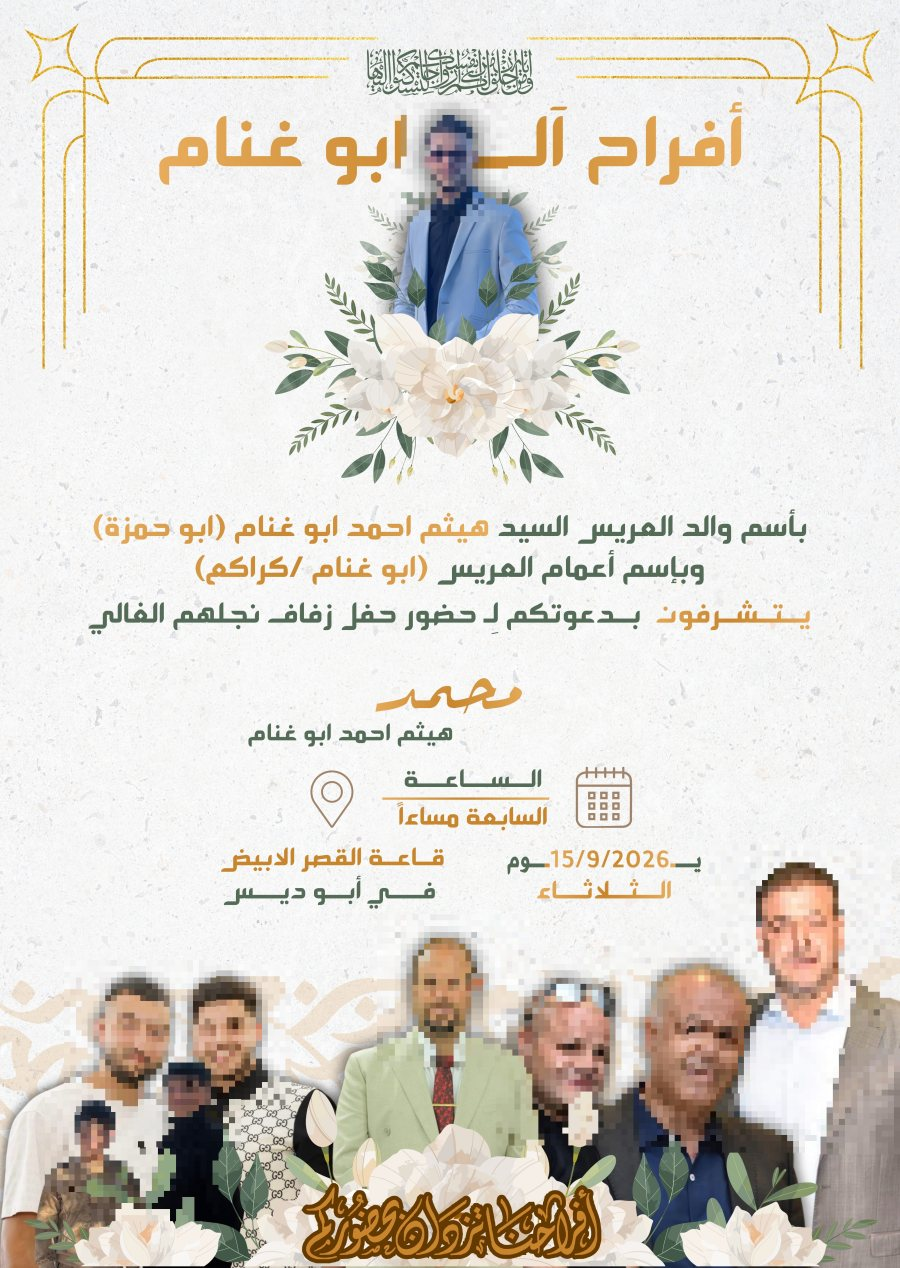
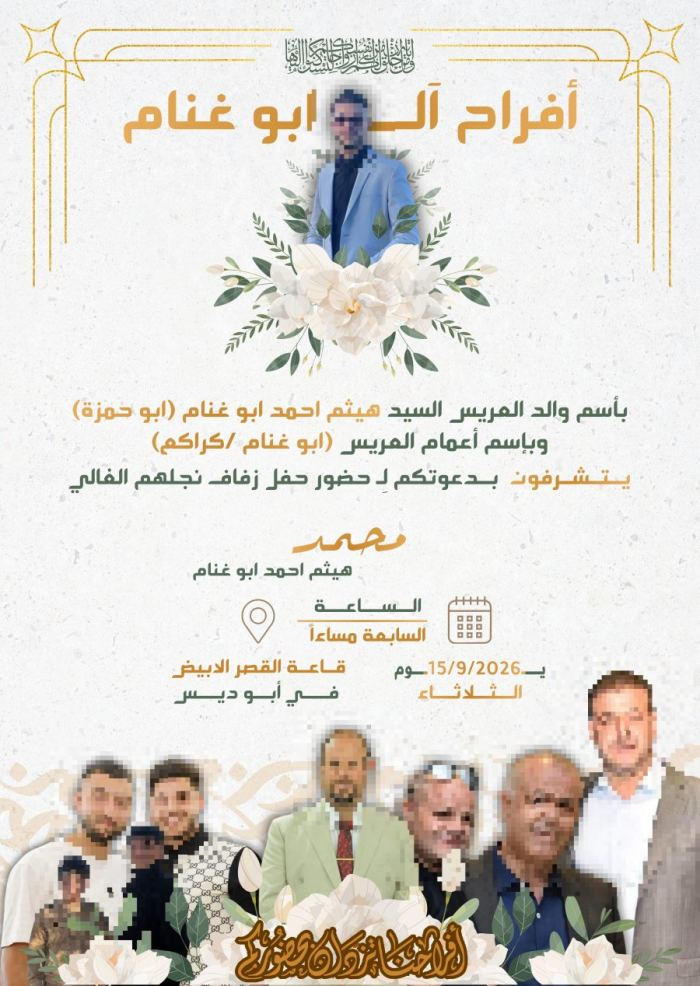
Add files via upload

Changed region(s): [[0.03, 0.0304, 0.09, 0.0609], [0.66, 0.6694, 0.69, 0.6998], [0.09, 0.0609, 0.12, 0.0913]]

diff --git a/index.html b/index.html
@@ -373,6 +373,18 @@ footer{background:var(--wine-dark);color:#e8d5d0;padding:60px 0 0}
 .snap-card p{color:rgba(255,255,255,.6);font-size:14px;margin-bottom:22px}
 .snap-btn{display:inline-block;background:#fffc00;color:#1a1a1a;font-weight:800;padding:11px 30px;border-radius:50px;font-size:15px}
 
+
+/* ═══ شريط الأعمال المتحرك ═══ */
+.works-strip{display:flex;gap:16px;overflow-x:auto;padding:8px 4px 20px;scroll-snap-type:x mandatory;-webkit-overflow-scrolling:touch}
+.works-strip::-webkit-scrollbar{height:6px}
+.works-strip::-webkit-scrollbar-thumb{background:var(--gold);border-radius:6px}
+.works-strip::-webkit-scrollbar-track{background:#f3e6dd;border-radius:6px}
+.work-card{position:relative;flex:0 0 185px;scroll-snap-align:start;border-radius:18px;overflow:hidden;box-shadow:0 10px 28px rgba(109,31,56,.16);transition:.3s;background:#fff}
+.work-card:hover{transform:translateY(-6px);box-shadow:0 18px 40px rgba(109,31,56,.25)}
+.work-card img{width:100%;aspect-ratio:3/4;object-fit:cover;object-position:top;display:block}
+.work-tag2{position:absolute;bottom:0;right:0;left:0;background:linear-gradient(transparent,rgba(30,8,16,.88));color:#fff;font-size:12.5px;font-weight:700;padding:26px 12px 10px;line-height:1.5}
+.photos-hint{font-size:12.5px;color:var(--muted);text-align:center;margin:2px 0 14px}
+
 </style>
 </head>
 <body>
@@ -434,7 +446,7 @@ footer{background:var(--wine-dark);color:#e8d5d0;padding:60px 0 0}
 
 <!-- بنر الهوية -->
 <section style="padding:0;line-height:0">
-  <img src="cover.jpg" alt="فرحتي - دعوات رقمية" style="width:100%;display:block">
+  <img src="cover.jpg" alt="فرحتي - دعوات رقمية" loading="lazy" style="width:100%;display:block">
 </section>
 
 <!-- الخدمات -->
@@ -565,17 +577,14 @@ footer{background:var(--wine-dark);color:#e8d5d0;padding:60px 0 0}
       <h2>نماذج من دعوات صممناها</h2>
       <p>استبدل هذه البطاقات بصور أعمالك الحقيقية لاحقاً</p>
     </div>
-    <div class="works-grid">
-      <div class="work work-img reveal">
-        <img src="work-1.jpg" alt="دعوة زفاف - أفراح آل أبو جمصة">
-        <div class="work-tag">💍 زفاف — أفراح آل أبو جمصة</div>
-      </div>
-      <div class="work work-img reveal">
-        <img src="work-2.jpg" alt="دعوة زفاف - أفراح آل أبو غنام">
-        <div class="work-tag">💍 زفاف — أفراح آل أبو غنام</div>
-      </div>
+    <div class="works-strip">
+      <div class="work-card reveal"><img src="work-1.jpg" alt="دعوة زفاف - أفراح آل أبو جُمعة" loading="lazy"><div class="work-tag2">💍 زفاف<br>أفراح آل أبو جُمعة</div></div>
+      <div class="work-card reveal"><img src="work-2.jpg" alt="دعوة زفاف - أفراح آل أبو غنام" loading="lazy"><div class="work-tag2">💍 زفاف<br>أفراح آل أبو غنام</div></div>
+      <div class="work-card reveal"><img src="work-3.jpg" alt="دعوة برايدل شاور - حنين" loading="lazy"><div class="work-tag2">🌸 برايدل شاور<br>حنين — الطور</div></div>
+      <div class="work-card reveal"><img src="work-4.jpg" alt="دعوة من أم العروس - حنين وخالد" loading="lazy"><div class="work-tag2">💐 من أم العروس<br>حنين & خالد — العيزرية</div></div>
+      <div class="work-card reveal"><img src="work-5.jpg" alt="دعوة عيد ميلاد - صلاح" loading="lazy"><div class="work-tag2">🎂 عيد ميلاد<br>صلاح — الخلاوة</div></div>
     </div>
-    <p class="works-note reveal">📸 شغل حقيقي لزبائننا — الوجوه مغبّشة حفاظاً على الخصوصية</p>
+    <p class="works-note reveal">📸 شغل حقيقي لزبايننا — الوجوه مغبّشة حفاظاً على الخصوصية ← اسحب لشوف الكل</p>
   </div>
 </section>
 
@@ -617,24 +626,24 @@ footer{background:var(--wine-dark);color:#e8d5d0;padding:60px 0 0}
 <section class="testimonials">
   <div class="container">
     <div class="sec-head reveal">
-      <span class="sec-tag">✦ قالوا عنا ✦</span>
-      <h2>فرحتهم بدأت من هنا</h2>
+      <span class="sec-tag">⭐ شو بيحكوا زبايننا ⭐</span>
+      <h2>كلام زبايننا من قلبهم</h2>
     </div>
     <div class="testi-grid">
       <div class="testi reveal">
         <div class="stars">★★★★★</div>
-        <p>"تعاملت معهم لدعوة زواج أختي، التصميم أبكى أمي من جماله! والتسليم كان أسرع من المتوقع."</p>
-        <div class="who"><div class="avatar">س</div><div><h4>سارة م.</h4><span>الباقة الذهبية</span></div></div>
+        <p>"والله طلبت دعوة لفرح أختي.. التصميم أبكى أمي من جماله! والتسليم كان أسرع من الوعد 👌"</p>
+        <div class="who"><div class="avatar">س</div><div><h4>سارة م.</h4><span>الباقة الذهبية — القدس</span></div></div>
       </div>
       <div class="testi reveal">
         <div class="stars">★★★★★</div>
-        <p>"فلتر السناب كان حديث كل الضيوف! صار كل الناس تصور فيه، وطلعت الذكريات ولا أروع."</p>
-        <div class="who"><div class="avatar">ع</div><div><h4>عبدالله ر.</h4><span>الباقة البلاتينية</span></div></div>
+        <p>"فلتر السناب صار حديث كل الضيوف! كلهم صوّروا فيه والذكريات طلعت ولا أحلى 👻"</p>
+        <div class="who"><div class="avatar">ع</div><div><h4>عبدالله ر.</h4><span>الباقة البلاتينية — العيزرية</span></div></div>
       </div>
       <div class="testi reveal">
         <div class="stars">★★★★★</div>
-        <p>"صفحة الدعوة بالرابط فكرة عبقرية — جدتي فتحتها من جوالها وشافت كل التفاصيل والخريطة بسهولة."</p>
-        <div class="who"><div class="avatar">ن</div><div><h4>نورة خ.</h4><span>الباقة البلاتينية</span></div></div>
+        <p>"صفحة الدعوة بالرابط فكرة عبقرية — جدتي فتحتها من جوّالتها وشافت كل شي والخريطة بكل سهولة 🤍"</p>
+        <div class="who"><div class="avatar">ن</div><div><h4>نورة خ.</h4><span>الباقة البلاتينية — بيت ساحور</span></div></div>
       </div>
     </div>
   </div>
@@ -767,23 +776,15 @@ footer{background:var(--wine-dark);color:#e8d5d0;padding:60px 0 0}
             </select>
           </div>
         </div>
-        <div class="form-row">
-          <div class="form-group">
-            <label>تاريخ المناسبة</label>
-            <input type="date" id="fDate">
-          </div>
-          <div class="form-group">
-            <label>📎 صور على التصميم؟</label>
-            <select id="fPhotos">
-              <option>لا</option>
-              <option>نعم — سأرسلها عبر واتساب</option>
-            </select>
-          </div>
+        <div class="form-group">
+          <label>تاريخ المناسبة</label>
+          <input type="date" id="fDate">
         </div>
         <div class="form-group">
           <label>تفاصيل إضافية (اختياري)</label>
           <textarea id="fNotes" rows="3" placeholder="أخبرنا عن تفضيلاتك: الألوان، الأسلوب، الأفكار..."></textarea>
         </div>
+        <p class="photos-hint">📎 إذا بدك تضيف صوركم على التصميم — ابعتها لنا عبر واتساب بعد إرسال الطلب</p>
         <button type="submit" class="btn">إرسال الطلب عبر واتساب 💬</button>
       </form>
     </div>
@@ -800,8 +801,8 @@ footer{background:var(--wine-dark);color:#e8d5d0;padding:60px 0 0}
         <div class="socials">
           <a href="https://www.instagram.com/farhati.co" title="انستغرام" target="_blank"><svg viewBox="0 0 24 24" width="19" height="19" fill="currentColor"><path d="M12 2.163c3.204 0 3.584.012 4.85.07 3.252.148 4.771 1.691 4.919 4.919.058 1.265.069 1.645.069 4.849 0 3.205-.012 3.584-.069 4.849-.149 3.225-1.664 4.771-4.919 4.919-1.266.058-1.644.07-4.85.07-3.204 0-3.584-.012-4.849-.07-3.26-.149-4.771-1.699-4.919-4.92-.058-1.265-.07-1.644-.07-4.849 0-3.204.013-3.583.07-4.849.149-3.227 1.664-4.771 4.919-4.919 1.266-.057 1.645-.069 4.849-.069zm0-2.163c-3.259 0-3.667.014-4.947.072-4.358.2-6.78 2.618-6.98 6.98-.059 1.281-.073 1.689-.073 4.948 0 3.259.014 3.668.072 4.948.2 4.358 2.618 6.78 6.98 6.98 1.281.058 1.689.072 4.948.072 3.259 0 3.668-.014 4.948-.072 4.354-.2 6.782-2.618 6.979-6.98.059-1.28.073-1.689.073-4.948 0-3.259-.014-3.667-.072-4.947-.196-4.354-2.617-6.78-6.979-6.98-1.281-.059-1.69-.073-4.949-.073zm0 5.838c-3.403 0-6.162 2.759-6.162 6.162s2.759 6.163 6.162 6.163 6.162-2.759 6.162-6.163c0-3.403-2.759-6.162-6.162-6.162zm0 10.162c-2.209 0-4-1.79-4-4 0-2.209 1.791-4 4-4s4 1.791 4 4c0 2.21-1.791 4-4 4zm6.406-11.845c-.796 0-1.441.645-1.441 1.44s.645 1.44 1.441 1.44c.795 0 1.439-.645 1.439-1.44s-.644-1.44-1.439-1.44z"/></svg></a>
           <a href="https://www.facebook.com/share/1DRjE2YVRX/?mibextid=wwXIfr" title="فيسبوك" target="_blank"><svg viewBox="0 0 24 24" width="19" height="19" fill="currentColor"><path d="M24 12.073c0-6.627-5.373-12-12-12s-12 5.373-12 12c0 5.99 4.388 10.954 10.125 11.854v-8.385H7.078v-3.47h3.047V9.43c0-3.007 1.792-4.669 4.533-4.669 1.312 0 2.686.235 2.686.235v2.953H15.83c-1.491 0-1.956.925-1.956 1.874v2.25h3.328l-.532 3.47h-2.796v8.385C19.612 23.027 24 18.062 24 12.073z"/></svg></a>
-          <a href="#" title="سناب شات"><svg viewBox="0 0 24 24" width="19" height="19" fill="currentColor"><path d="M12 2c3.2 0 5.3 2.4 5.3 5.3v2.4c.5.2 1 .1 1.5.1.8 0 1.7.3 1.7 1.2 0 .8-.7 1.1-1.4 1.3-.9.3-1.5.7-1.8 1.4-.1.4-.1.9 0 1.3.5 1.3 1.5 2.3 2.9 2.8.6.2 1.2.4 1.8.7.5.3.8.8.7 1.4-.1.8-.9 1.2-1.7 1.3-.9.1-1.8 0-2.7-.1-1.1-.1-2.2.2-3.2.7-.9.5-1.9.7-2.9.7s-2-.2-2.9-.7c-1-.5-2.1-.8-3.2-.7-.9.1-1.8.2-2.7.1-.8-.1-1.6-.5-1.7-1.3-.1-.6.2-1.1.7-1.4.6-.3 1.2-.5 1.8-.7 1.4-.5 2.4-1.5 2.9-2.8.1-.4.1-.9 0-1.3-.3-.7-.9-1.1-1.8-1.4-.7-.2-1.4-.5-1.4-1.3 0-.9.9-1.2 1.7-1.2.5 0 1 .1 1.5-.1v-2.4C6.7 4.4 8.8 2 12 2z"/></svg></a>
-          <a href="#" title="تيك توك"><svg viewBox="0 0 24 24" width="19" height="19" fill="currentColor"><path d="M12.525.02c1.31-.02 2.61-.01 3.91-.02.08 1.53.63 3.09 1.75 4.17 1.12 1.11 2.7 1.62 4.24 1.79v4.03c-1.44-.05-2.89-.35-4.2-.97-.57-.26-1.1-.59-1.62-.93-.01 2.92.01 5.84-.02 8.75-.08 1.4-.54 2.79-1.35 3.94-1.31 1.92-3.58 3.17-5.91 3.21-1.43.08-2.86-.31-4.08-1.03-2.02-1.19-3.44-3.37-3.65-5.71-.02-.5-.03-1-.01-1.49.18-1.9 1.12-3.72 2.58-4.96 1.66-1.44 3.98-2.13 6.15-1.72.02 1.48-.04 2.96-.04 4.44-.99-.32-2.15-.23-3.02.37-.63.41-1.11 1.04-1.36 1.75-.21.51-.15 1.07-.14 1.61.24 1.64 1.82 3.02 3.5 2.87 1.12-.01 2.19-.66 2.77-1.61.19-.33.4-.67.41-1.06.1-1.79.06-3.57.07-5.36.01-4.03-.01-8.05.02-12.07z"/></svg></a>
+          <a href="https://snapchat.com/t/NvCjWCyL" title="سناب شات" target="_blank"><svg viewBox="0 0 24 24" width="19" height="19" fill="currentColor"><path d="M12 2c3.2 0 5.3 2.4 5.3 5.3v2.4c.5.2 1 .1 1.5.1.8 0 1.7.3 1.7 1.2 0 .8-.7 1.1-1.4 1.3-.9.3-1.5.7-1.8 1.4-.1.4-.1.9 0 1.3.5 1.3 1.5 2.3 2.9 2.8.6.2 1.2.4 1.8.7.5.3.8.8.7 1.4-.1.8-.9 1.2-1.7 1.3-.9.1-1.8 0-2.7-.1-1.1-.1-2.2.2-3.2.7-.9.5-1.9.7-2.9.7s-2-.2-2.9-.7c-1-.5-2.1-.8-3.2-.7-.9.1-1.8.2-2.7.1-.8-.1-1.6-.5-1.7-1.3-.1-.6.2-1.1.7-1.4.6-.3 1.2-.5 1.8-.7 1.4-.5 2.4-1.5 2.9-2.8.1-.4.1-.9 0-1.3-.3-.7-.9-1.1-1.8-1.4-.7-.2-1.4-.5-1.4-1.3 0-.9.9-1.2 1.7-1.2.5 0 1 .1 1.5-.1v-2.4C6.7 4.4 8.8 2 12 2z"/></svg></a>
+          <a href="https://www.tiktok.com/@farhati.co" title="تيك توك" target="_blank"><svg viewBox="0 0 24 24" width="19" height="19" fill="currentColor"><path d="M12.525.02c1.31-.02 2.61-.01 3.91-.02.08 1.53.63 3.09 1.75 4.17 1.12 1.11 2.7 1.62 4.24 1.79v4.03c-1.44-.05-2.89-.35-4.2-.97-.57-.26-1.1-.59-1.62-.93-.01 2.92.01 5.84-.02 8.75-.08 1.4-.54 2.79-1.35 3.94-1.31 1.92-3.58 3.17-5.91 3.21-1.43.08-2.86-.31-4.08-1.03-2.02-1.19-3.44-3.37-3.65-5.71-.02-.5-.03-1-.01-1.49.18-1.9 1.12-3.72 2.58-4.96 1.66-1.44 3.98-2.13 6.15-1.72.02 1.48-.04 2.96-.04 4.44-.99-.32-2.15-.23-3.02.37-.63.41-1.11 1.04-1.36 1.75-.21.51-.15 1.07-.14 1.61.24 1.64 1.82 3.02 3.5 2.87 1.12-.01 2.19-.66 2.77-1.61.19-.33.4-.67.41-1.06.1-1.79.06-3.57.07-5.36.01-4.03-.01-8.05.02-12.07z"/></svg></a>
           <a href="https://wa.me/972528365030" title="واتساب" target="_blank"><svg viewBox="0 0 24 24" width="19" height="19" fill="currentColor"><path d="M17.472 14.382c-.297-.149-1.758-.867-2.03-.967-.273-.099-.471-.148-.67.15-.197.297-.767.966-.94 1.164-.173.199-.347.223-.644.075-.297-.15-1.255-.463-2.39-1.475-.883-.788-1.48-1.761-1.653-2.059-.173-.297-.018-.458.13-.606.134-.133.297-.347.446-.52.149-.174.198-.298.297-.497.1-.198.05-.371-.025-.52-.074-.149-.669-1.612-.916-2.207-.242-.579-.487-.5-.669-.51-.173-.008-.371-.01-.57-.01-.198 0-.52.074-.792.372-.272.297-1.04 1.016-1.04 2.479 0 1.462 1.065 2.875 1.213 3.074.149.198 2.096 3.2 5.077 4.487.709.306 1.262.489 1.694.625.712.227 1.36.195 1.871.118.571-.085 1.758-.719 2.006-1.413.248-.694.248-1.289.173-1.413-.074-.124-.272-.198-.57-.347m-5.421 7.403h-.004a9.87 9.87 0 01-5.031-1.378l-.361-.214-3.741.982.998-3.648-.235-.374a9.86 9.86 0 01-1.51-5.26c.001-5.45 4.436-9.884 9.888-9.884 2.64 0 5.122 1.03 6.988 2.898a9.825 9.825 0 012.893 6.994c-.003 5.45-4.437 9.884-9.885 9.884m8.413-18.297A11.815 11.815 0 0012.05 0C5.495 0 .16 5.335.157 11.892c0 2.096.547 4.142 1.588 5.945L.057 24l6.305-1.654a11.882 11.882 0 005.683 1.448h.005c6.554 0 11.89-5.335 11.893-11.893a11.821 11.821 0 00-3.48-8.413z"/></svg></a>
         </div>
       </div>
@@ -893,8 +894,7 @@ document.getElementById('orderForm').addEventListener('submit',e=>{
 🎁 الباقة: ${document.getElementById('fPackage').value}
 📅 التاريخ: ${document.getElementById('fDate').value||'غير محدد'}
 📱 جوالي: ${document.getElementById('fPhone').value}
-📝 ملاحظات: ${document.getElementById('fNotes').value||'لا يوجد'}
-📎 إضافة صور على التصميم: ${document.getElementById('fPhotos').value}`;
+📝 ملاحظات: ${document.getElementById('fNotes').value||'لا يوجد'}`;
   window.open(`https://wa.me/${WHATSAPP_NUMBER}?text=${encodeURIComponent(msg)}`,'_blank');
 });
 </script>
